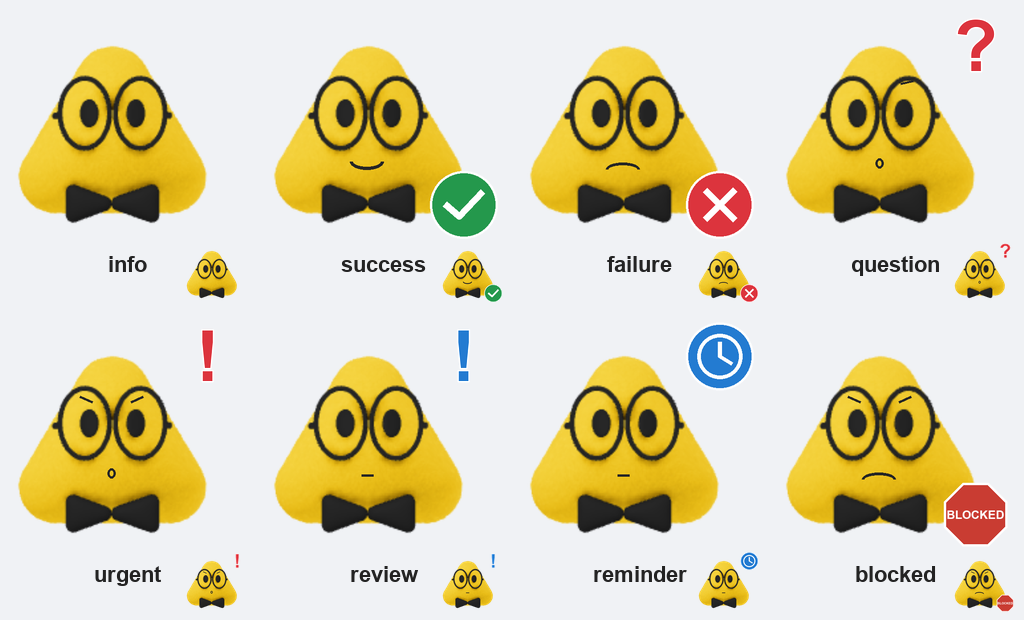
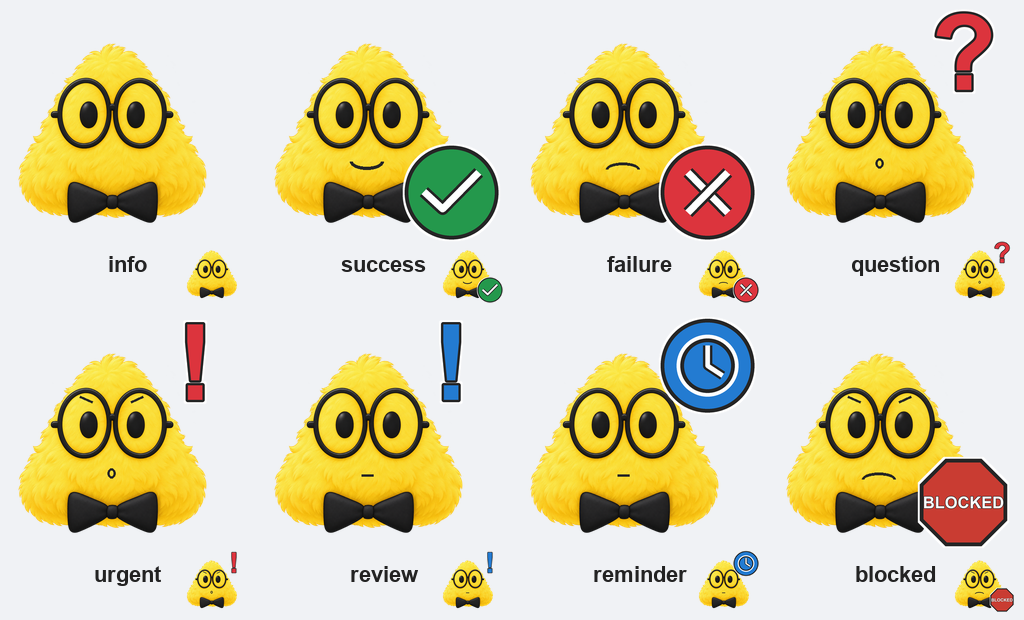
Restyle mascot with fluffy cartoon fur and larger cartoon markers

diff --git a/sources/compose.py b/sources/compose.py
@@ -9,9 +9,9 @@ FONT = '/System/Library/Fonts/Supplemental/Arial Bold.ttf'
 def font(n):
     try: return ImageFont.truetype(FONT,n)
     except OSError: return ImageFont.truetype('DejaVuSans-Bold.ttf',n)
-base = Image.open(ROOT/'sources/case-original.png').convert('RGBA')
+base = Image.open(ROOT/'sources/case-fluffy-base.png').convert('RGBA')
 # Identical base transform leaves clear upper and lower right badge zones.
-base = base.resize((410,410),Image.Resampling.LANCZOS)
+base = base.crop(base.getbbox()).resize((410,410),Image.Resampling.LANCZOS)
 colors = {'success':'#24984c','failure':'#dc343d','question':'#dc343d','urgent':'#dc343d','review':'#237bd1','reminder':'#237bd1','blocked':'#c93c32'}
 masters=[]
 for name in NAMES:
@@ -27,25 +27,41 @@ for name in NAMES:
         d.line((153,174,180,186),fill=ink,width=5); d.line((262,186,288,174),fill=ink,width=5)
     if name=='question': d.line((266,168,292,162),fill=ink,width=5)
     if name!='info':
+        # Supersampled cartoon markers: thick dark contour and white sticker edge.
+        scale=3
+        badge=Image.new('RGBA',(216*scale,216*scale))
+        bd=ImageDraw.Draw(badge)
+        def pts(seq): return [(int(x*scale),int(y*scale)) for x,y in seq]
+        def line(seq,fill,width): bd.line(pts(seq),fill=fill,width=width*scale,joint='curve')
         col=colors[name]
-        if name in ('success','failure','blocked'):
-            box=(354,354,498,498)
-            if name=='blocked':
-                cx=cy=426; r=73
-                points=[(cx+r*math.cos(math.radians(22.5+k*45)),cy+r*math.sin(math.radians(22.5+k*45))) for k in range(8)]
-                d.polygon(points,fill=col,outline='white',width=5)
-                d.text((426,426),'BLOCKED',font=font(25),anchor='mm',fill='white',stroke_width=0)
+        if name in ('success','failure','reminder'):
+            bd.ellipse((8*scale,8*scale,208*scale,208*scale),fill=ink)
+            bd.ellipse((16*scale,16*scale,200*scale,200*scale),fill=col)
+            if name=='success':
+                points=[(49,106),(89,143),(166,65)]
+                line(points,ink,26); line(points,'white',15)
+            elif name=='failure':
+                for points in [[(66,65),(151,151)],[(151,65),(66,151)]]:
+                    line(points,ink,26); line(points,'white',15)
             else:
-                d.ellipse(box,fill=col,outline='white',width=5)
-                if name=='success': d.line([(385,424),(416,451),(467,397)],fill='white',width=14,joint='curve')
-                else:
-                    d.line((394,394,458,458),fill='white',width=14); d.line((458,394,394,458),fill='white',width=14)
-        elif name=='reminder':
-            d.ellipse((354,16,498,160),fill=col,outline='white',width=5)
-            d.ellipse((378,40,474,136),outline='white',width=8)
-            d.line([(426,57),(426,88),(452,104)],fill='white',width=9,joint='curve')
+                bd.ellipse((42*scale,42*scale,174*scale,174*scale),outline=ink,width=16*scale)
+                bd.ellipse((42*scale,42*scale,174*scale,174*scale),outline='white',width=8*scale)
+                line([(108,65),(108,108),(140,129)],ink,20)
+                line([(108,65),(108,108),(140,129)],'white',10)
+        elif name=='blocked':
+            vertices=[(108+101*math.cos(math.radians(22.5+k*45)),108+101*math.sin(math.radians(22.5+k*45))) for k in range(8)]
+            bd.polygon(pts(vertices),fill=col,outline=ink,width=8*scale)
+            bd.text((108*scale,108*scale),'BLOCKED',font=font(35*scale),anchor='mm',fill='white',stroke_width=1*scale,stroke_fill=ink)
         else:
-            d.text((426,88),'?' if name=='question' else '!',font=font(151),anchor='mm',fill=col,stroke_width=3,stroke_fill='white')
+            bd.text((108*scale,103*scale),'?' if name=='question' else '!',font=font(225*scale),anchor='mm',fill=col,stroke_width=5*scale,stroke_fill=ink)
+        # A white contour follows the marker itself; no rectangular background.
+        from PIL import ImageFilter
+        alpha=badge.getchannel('A')
+        border=alpha.filter(ImageFilter.MaxFilter(25))
+        sticker=Image.new('RGBA',badge.size,'white'); sticker.putalpha(border)
+        sticker.alpha_composite(badge)
+        sticker=sticker.resize((216,216),Image.Resampling.LANCZOS)
+        im.alpha_composite(sticker,(292,292) if name in ('success','failure','blocked') else (292,0))
     im.save(ROOT/f'logos/case-{name}.png',optimize=True)
     im.resize((256,256),Image.Resampling.LANCZOS).save(ROOT/f'logos/256/case-{name}.png',optimize=True)
     masters.append(im)

diff --git a/README.md b/README.md
@@ -52,8 +52,8 @@ Example invocation parameters for `Bark_notifications.notify` (merge with the co
 
 ## Method and validation
 
-Deterministic Pillow composition uses the user-supplied original as an immutable source. Every icon uses the same resized mascot, with separate small mouth/eyebrow and status overlays. No generative model was used; image-gen-2.5 was not selectable through the available tool. The original body, eyes, glasses, color, orientation and bow tie are preserved.
+The revised fluffy cartoon mascot was created with the built-in image-generation editor using the user-supplied original as its reference. The tool does not expose a model selector; no claim is made that image-gen-2.5 was used. The generated base is retained in `sources/case-fluffy-base.png`; the untouched original remains in `sources/case-original.png`. All eight icons share the same generated base. Pillow adds minimal expressions and consistent larger cartoon markers with thick dark outlines and white sticker borders. Marker layers are 216 px wide and may overlap roughly a third of the character's side, as requested in the revision.
 
-Rebuild with Python and Pillow: `python3 sources/compose.py`. The script uses Arial Bold on macOS, with DejaVu Sans Bold as fallback. Exact typography requires the same font. `sources/validation.json` records dimensions and sizes. All 16 PNG exports were decoded, checked for RGBA encoding, requested dimensions and transparent corners. The contact sheet includes 64 px previews and was visually inspected for symbol, expression, geometry and cropping consistency. BLOCKED is readable at master sizes; its seven-letter label is very small at 64 px, where the stop-sign shape carries the status.
+Rebuild the exported icons from the saved generated base with Python and Pillow: `python3 sources/compose.py`. This composition is reproducible; generation of the fluffy base is not deterministic. The script uses Arial Bold on macOS, with DejaVu Sans Bold as fallback. Exact typography requires the same font. `sources/validation.json` records dimensions and sizes. All 16 PNG exports were decoded and checked for RGBA encoding, requested dimensions and transparent corners. The contact sheet includes visually inspected 64 px previews. Review retains a blue exclamation mark; blocked retains a red octagonal stop sign and the exact text BLOCKED. The BLOCKED label remains small at 64 px, but is larger than in the initial family. `sources/public-url-validation.json` records remote verification.
 
 Original mascot supplied by the user; retained in `sources/case-original.png`. No copyright ownership claim or third-party license is assigned. No Bark device keys or credentials are included.

diff --git a/sources/generation-prompts.md b/sources/generation-prompts.md
@@ -1,3 +1,11 @@
-# Composition specification
+# Fluffy cartoon revision
 
-No generative prompts were executed. image-gen-2.5 was not selectable. The fallback uses Pillow over the supplied immutable mascot. Identical 410 px mascot placement at (18,70); 144 px badges with white borders; green check/red cross at bottom-right; red question/exclamation and blue review exclamation/clock at top-right; red octagonal BLOCKED badge at bottom-right. Minimal dark mouths and eyebrows convey expressions.
+Method: built-in image-generation editor, using `case-original.png` as the edit target and requesting transparency. No model selector was available, so image-gen-2.5 is not claimed.
+
+## Base edit prompt
+
+Use case: style-transfer. Edit target: supplied original C.A.S.E. mascot. Create one single centered mascot, no markers, no text, fully transparent background. Restyle this SAME character as a charming fluffy cartoon sticker illustration. Preserve yellow softly rounded triangular body, same upright orientation, large black oval/circular eyeglasses with yellow inside, two black oval eyes, black bow tie at bottom, same proportions. Make fur visibly soft and fluffy with little tufted contour and gently drawn tufts, clean expressive cartoon rendering rather than photorealistic fur. Keep glasses and bow tie strong black with smooth cartoon outlines. Neutral friendly face, no mouth needed, no arms or legs or additional accessories. Character fills square with generous unclipped margin. Real RGBA transparent background, no checkerboard or background color. Preserve identity and geometry aggressively; only increase fluffiness and cartoon style.
+
+## Composition
+
+`compose.py` uses one shared 410 px fluffy base at (18,70). Cartoon marker layers are 216 px wide, rendered at 3× resolution for clean edges, with dark outlines and white sticker borders. Bottom-right markers begin at (292,292); top-right markers at (292,0). Status colors and meanings are preserved. Expressions use small mouths and eyebrows. Historical initial assets remain recoverable from Git history.
